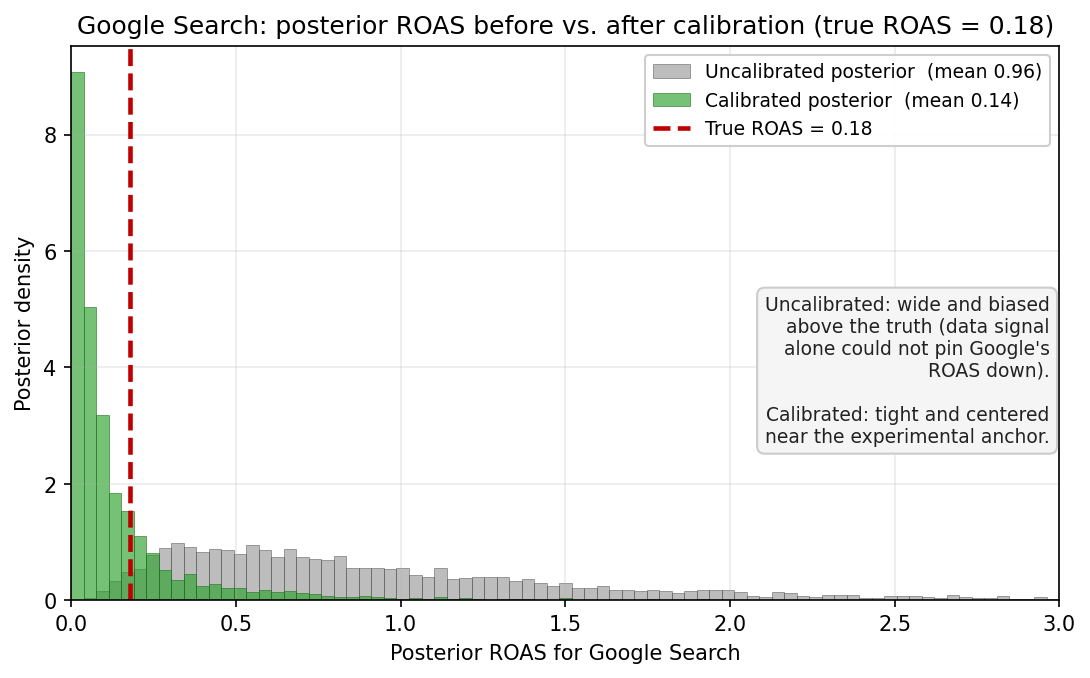
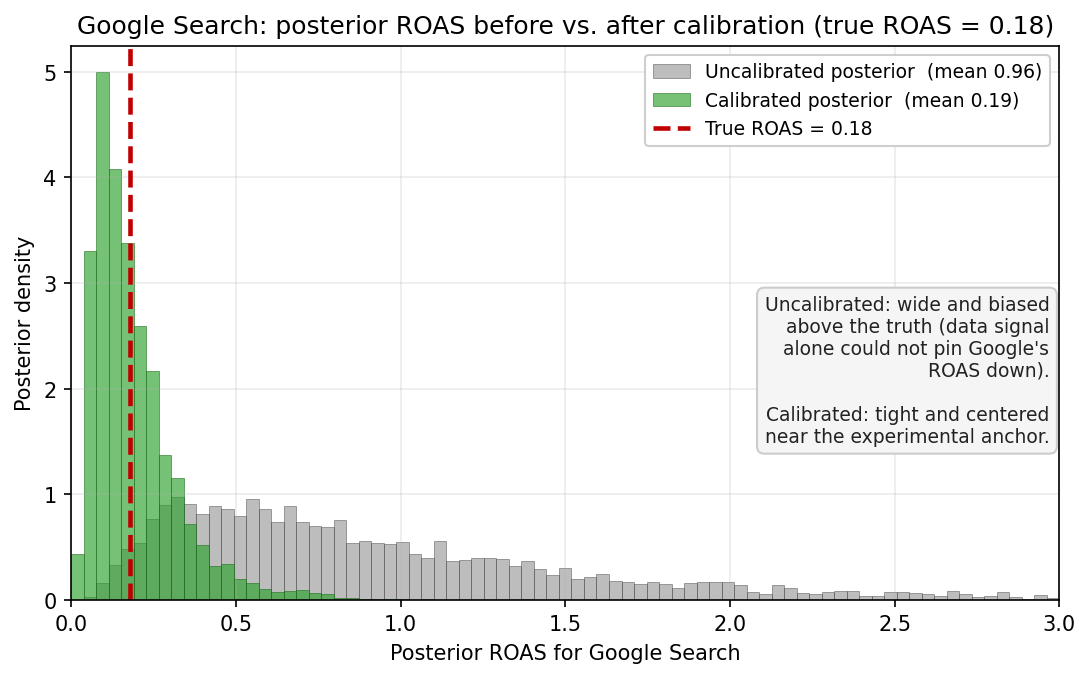
Sync public site to latest render (review fixes: α/2 label, Part 3 key takeaways, discount-trap wording, +7% basis, calibrated-prior figure)

diff --git a/part3/sec3.2-ab-testing.html b/part3/sec3.2-ab-testing.html
@@ -607,6 +607,7 @@ window.Quarto = {
   <li><a href="#decide-before-you-launch" id="toc-decide-before-you-launch" class="nav-link" data-scroll-target="#decide-before-you-launch">Decide Before You Launch</a></li>
   <li><a href="#cuped-getting-more-precision-from-the-same-sample" id="toc-cuped-getting-more-precision-from-the-same-sample" class="nav-link" data-scroll-target="#cuped-getting-more-precision-from-the-same-sample">CUPED: Getting More Precision from the Same Sample</a></li>
   <li><a href="#when-a-test-is-inconclusive" id="toc-when-a-test-is-inconclusive" class="nav-link" data-scroll-target="#when-a-test-is-inconclusive">When a Test Is Inconclusive</a></li>
+  <li><a href="#key-takeaways" id="toc-key-takeaways" class="nav-link" data-scroll-target="#key-takeaways">Key Takeaways</a></li>
   </ul>
 <div class="quarto-code-links"><h2>Code Links</h2><ul><li><a href="https://github.com/takechanman1228/marketing-science-in-python/blob/main/notebooks/part3-causal-inference/sec3.2_ab_test_figures.ipynb"><i class="bi bi-github"></i>sec3.2_ab_test_figures.ipynb</a></li></ul></div></nav>
     </div>
@@ -671,10 +672,10 @@ window.Quarto = {
 <h2 class="anchored" data-anchor-id="statistical-power">Statistical Power</h2>
 <p>Statistical power is the chance your test will detect an effect of a specific size if that effect truly exists. Most teams aim for 80% power, which still leaves a 20% chance of missing an effect that large.</p>
 <p>Imagine repeating the same A/B test many times. If the redesign has no real effect, the estimated lift will bounce around zero. If the redesign truly improves conversion, the estimated lift will bounce around the real lift. Power is the chance that the test lands far enough from zero for us to detect that effect.</p>
-<div id="fig-power-concept" class="fig-md quarto-float quarto-figure quarto-figure-center anchored" alt="Statistical power: overlapping H0 and H1 distributions with the alpha, beta, and power (1−beta) regions shaded.">
+<div id="fig-power-concept" class="fig-md quarto-float quarto-figure quarto-figure-center anchored" alt="Statistical power: overlapping H0 and H1 distributions with the alpha/2, beta, and power (1−beta) regions shaded.">
 <figure class="quarto-float quarto-float-fig figure">
 <div aria-describedby="fig-power-concept-caption-0ceaefa1-69ba-4598-a22c-09a6ac19f8ca">
-<img src="../images/part3/sec3.2/power_concept.png" class="fig-md img-fluid figure-img" alt="Statistical power: overlapping H0 and H1 distributions with the alpha, beta, and power (1−beta) regions shaded.">
+<img src="../images/part3/sec3.2/power_concept.png" class="fig-md img-fluid figure-img" alt="Statistical power: overlapping H0 and H1 distributions with the alpha/2, beta, and power (1−beta) regions shaded.">
 </div>
 <figcaption class="quarto-float-caption-bottom quarto-float-caption quarto-float-fig" id="fig-power-concept-caption-0ceaefa1-69ba-4598-a22c-09a6ac19f8ca">
 Figure&nbsp;1: Statistical power: the H0 and H1 distributions.
@@ -774,6 +775,16 @@ Figure&nbsp;3: How CUPED removes pre-experiment variance.
 <p>But what if you can’t randomize at all? Maybe the treatment is already live, or there are ethical reasons you can’t run an experiment. That’s when you turn to quasi-experimental methods.</p>
 <p><strong>Companion notebook:</strong> <code>sec3.2_ab_test_figures.ipynb</code> reproduces the sample-size, power, and CUPED figures from this chapter.<br>
 <a href="https://github.com/takechanman1228/marketing-science-in-python/blob/main/notebooks/part3-causal-inference/sec3.2_ab_test_figures.ipynb">View on GitHub</a> · <a href="https://colab.research.google.com/github/takechanman1228/marketing-science-in-python/blob/main/notebooks/part3-causal-inference/sec3.2_ab_test_figures.ipynb">Open in Colab</a></p>
+</section>
+<section id="key-takeaways" class="level2">
+<h2 class="anchored" data-anchor-id="key-takeaways">Key Takeaways</h2>
+<ul>
+<li>A non-significant result is not evidence of no effect. An underpowered test cannot separate a real lift from noise, so before declaring a treatment dead, ask whether the test could have detected an effect you care about.</li>
+<li>Sample size scales with <span class="math inline">\(1/\text{MDE}^2\)</span>. Detecting half the lift takes roughly four times the users, which is why small improvements on low-conversion metrics are expensive to measure.</li>
+<li>Decide four things before launch: the primary metric, the MDE, the sample size and duration, and the guardrail metrics. Writing them down protects you from peeking and metric fishing.</li>
+<li>Judge inconclusive tests by the confidence interval, not the p-value. If the interval still includes lifts worth shipping, the test has not failed; it just has not answered yet.</li>
+<li>When you cannot collect more data, CUPED can buy precision from pre-experiment data. At a correlation of 0.7 it removes about half the variance, as much as doubling the sample.</li>
+</ul>
 
 
 <div id="refs" class="references csl-bib-body hanging-indent" role="list" style="display: none">

diff --git a/part5/sec5.1-price-elasticity.html b/part5/sec5.1-price-elasticity.html
@@ -760,7 +760,7 @@ Figure&nbsp;2: Fitted power-law demand curves for eight products.
 <p>The two answers can differ. A lower price can sell more units and increase revenue while reducing total margin. A higher price can reduce revenue but improve margin if the remaining units are profitable enough. The point is not that margin is always the only objective. The point is that the objective must be explicit before choosing the price.</p>
 <section id="worked-example-a-private-label-cereal" class="level3">
 <h3 class="anchored" data-anchor-id="worked-example-a-private-label-cereal">Worked example: a private-label cereal</h3>
-<p>Take a private-label cereal, the same category as the part-introduction promotion story, with these parameters:</p>
+<p>Take a private-label cereal with these parameters:</p>
 <ol type="1">
 <li>Current price: $3.99</li>
 <li>Variable cost: $2.20</li>
@@ -815,7 +815,7 @@ Figure&nbsp;2: Fitted power-law demand curves for eight products.
 </tr>
 </tbody>
 </table>
-<p>The table shows the core tradeoff. Within this range, revenue is highest at the lowest price, and under constant elasticity it would keep climbing with every further cut. Margin behaves differently: it has an interior optimum at <span class="math inline">\(P^* = C \cdot |b_1| / (|b_1| - 1)\)</span>, about $5.87 for these parameters, which is why total margin is still rising at the top of the table, at $2,903. At 10% higher, revenue falls 5.5% while margin rises 5.1%. Revenue and margin point in opposite directions. This is the discount trap from the part introduction, now with numbers attached.</p>
+<p>The table shows the core tradeoff. Within this range, revenue is highest at the lowest price, and under constant elasticity it would keep climbing with every further cut. Margin behaves differently: it has an interior optimum at <span class="math inline">\(P^* = C \cdot |b_1| / (|b_1| - 1)\)</span>, about $5.87 for these parameters, which is why total margin is still rising at the top of the table, at $2,903. At 10% higher, revenue falls 5.5% while margin rises 5.1%. Revenue and margin point in opposite directions. This is the discount trap, now with numbers attached.</p>
 <p><a href="#fig-margin-curves" class="quarto-xref">Figure&nbsp;<span>3</span></a> visualizes the same logic for five real Dunnhumby products. In every panel, revenue keeps climbing as the price falls, while contribution margin turns over at an interior price, so the two objectives genuinely point to different decisions. For these highly elastic private-label dairy items, the margin-maximizing price is consistently lower than the current price because the extra volume from a price cut is large enough to lift total margin.</p>
 <div id="fig-margin-curves" class="fig-lg quarto-float quarto-figure quarto-figure-center anchored" alt="Revenue vs. contribution-margin curves for five products, marking the current and margin-maximizing prices.">
 <figure class="quarto-float quarto-float-fig figure">

diff --git a/part3/sec3.3-quasi-experiments.html b/part3/sec3.3-quasi-experiments.html
@@ -581,6 +581,7 @@ gtag('config', 'G-YY0LCGYER5', { 'anonymize_ip': true});
   </ul></li>
   <li><a href="#regression-discontinuity-rdd" id="toc-regression-discontinuity-rdd" class="nav-link" data-scroll-target="#regression-discontinuity-rdd">Regression Discontinuity (RDD)</a></li>
   <li><a href="#synthetic-control" id="toc-synthetic-control" class="nav-link" data-scroll-target="#synthetic-control">Synthetic Control</a></li>
+  <li><a href="#key-takeaways" id="toc-key-takeaways" class="nav-link" data-scroll-target="#key-takeaways">Key Takeaways</a></li>
   </ul>
 <div class="quarto-code-links"><h2>Code Links</h2><ul><li><a href="https://github.com/takechanman1228/marketing-science-in-python/blob/main/notebooks/part3-causal-inference/sec3.3_quasi_experiments.ipynb"><i class="bi bi-github"></i>sec3.3_quasi_experiments.ipynb</a></li></ul></div></nav>
     </div>
@@ -737,6 +738,15 @@ Figure&nbsp;4: Synthetic Control: actual vs.&nbsp;synthetic counterfactual.
 <p>These methods estimate the average effect of a treatment. But in practice, different customers can respond very differently. A coupon might lift purchases by 5% on average, but that average could mix customers who saw a 20% lift with others who saw no effect at all. The next chapter digs into that question.</p>
 <p><strong>Companion notebook:</strong> <code>sec3.3_quasi_experiments.ipynb</code> works through DiD (table, regression, and pre-trend check), RDD, and Synthetic Control on synthetic data with <code>statsmodels</code> and <code>scipy</code>.<br>
 <a href="https://github.com/takechanman1228/marketing-science-in-python/blob/main/notebooks/part3-causal-inference/sec3.3_quasi_experiments.ipynb">View on GitHub</a> · <a href="https://colab.research.google.com/github/takechanman1228/marketing-science-in-python/blob/main/notebooks/part3-causal-inference/sec3.3_quasi_experiments.ipynb">Open in Colab</a></p>
+</section>
+<section id="key-takeaways" class="level2">
+<h2 class="anchored" data-anchor-id="key-takeaways">Key Takeaways</h2>
+<ul>
+<li>The method is chosen by the assignment structure, not by sophistication: who received the treatment, when, and why. Pick the design whose comparison your business context actually allows.</li>
+<li>DiD compares changes, not levels, so the groups may start at different baselines. It rests on parallel trends: check the pre-period, and treat a clean pre-trend as a credibility check, not proof.</li>
+<li>RDD estimates a local effect for units near the cutoff, and only when units cannot precisely sort themselves across it. Do not read the jump at the threshold as an effect for everyone.</li>
+<li>Synthetic Control stands or falls on the pre-period fit. If the weighted donor blend cannot reproduce the treated market’s history, do not trust the post-campaign gap.</li>
+</ul>
 
 
 <div id="refs" class="references csl-bib-body hanging-indent" role="list" style="display: none">

diff --git a/part3/sec3.4-meta-learners.html b/part3/sec3.4-meta-learners.html
@@ -609,6 +609,7 @@ window.Quarto = {
   <li><a href="#advanced-meta-learners" id="toc-advanced-meta-learners" class="nav-link" data-scroll-target="#advanced-meta-learners">Advanced Meta-Learners</a></li>
   <li><a href="#example-estimating-heterogeneous-email-effects" id="toc-example-estimating-heterogeneous-email-effects" class="nav-link" data-scroll-target="#example-estimating-heterogeneous-email-effects">Example: Estimating Heterogeneous Email Effects</a></li>
   <li><a href="#what-to-check-before-trusting-cate" id="toc-what-to-check-before-trusting-cate" class="nav-link" data-scroll-target="#what-to-check-before-trusting-cate">What to Check Before Trusting CATE</a></li>
+  <li><a href="#key-takeaways" id="toc-key-takeaways" class="nav-link" data-scroll-target="#key-takeaways">Key Takeaways</a></li>
   </ul>
 <div class="quarto-code-links"><h2>Code Links</h2><ul><li><a href="https://github.com/takechanman1228/marketing-science-in-python/blob/main/notebooks/part3-causal-inference/sec3.4_meta_learners.ipynb"><i class="bi bi-github"></i>sec3.4_meta_learners.ipynb</a></li></ul></div></nav>
     </div>
@@ -816,6 +817,15 @@ Figure&nbsp;8: CATE recovery across meta-learners.
 <li>Watch overlap. Where treated and control customers do not coexist, CATE is an extrapolation rather than an estimate.</li>
 </ul>
 <p>We now have per-customer estimates of where the treatment effect is larger or smaller. The next section turns those estimates into targeting decisions.</p>
+</section>
+<section id="key-takeaways" class="level2">
+<h2 class="anchored" data-anchor-id="key-takeaways">Key Takeaways</h2>
+<ul>
+<li>ATE answers “did it work on average”; CATE asks “for whom did it work.” Targeting needs the second, and meta-learners estimate it by using machine learning to fill in each customer’s missing counterfactual.</li>
+<li>S-learner is the simplest baseline but can bias effects toward zero when the treatment signal is weak; T-learner removes that bias at the cost of higher variance. X-, DR-, and DML-learners trade extra machinery for robustness on imbalanced or confounded data.</li>
+<li>Which learner ranks customers best is data-dependent. Grade recovery on your own data, with a semi-synthetic benchmark if needed, rather than trusting any method by reputation.</li>
+<li>CATE is a group-level model estimate, not a per-customer measurement. Run the checks above, from the mean against the experimental difference to learner stability and overlap, before spending budget on it.</li>
+</ul>
 
 
 <div id="refs" class="references csl-bib-body hanging-indent" role="list" style="display: none">

diff --git a/part6/sec6.2-mmm-fundamentals.html b/part6/sec6.2-mmm-fundamentals.html
@@ -951,7 +951,7 @@ Figure&nbsp;15: Pre- vs.&nbsp;post-optimization budget and sales.
 </figcaption>
 </figure>
 </div>
-<p>In the demo, the optimizer reallocates spend across the five modeled channels (TV/CTV, OOH, Google Search, Meta, and TikTok), moving budget away from channels with flatter marginal response curves toward channels with more remaining headroom. The total budget stays the same; only the mix changes. Gains of 5–10% in predicted sales from reallocation alone are common when teams first implement MMM; this demo shows about +7%.</p>
+<p>In the demo, the optimizer reallocates spend across the five modeled channels (TV/CTV, OOH, Google Search, Meta, and TikTok), moving budget away from channels with flatter marginal response curves toward channels with more remaining headroom. The total budget stays the same; only the mix changes. Gains of 5–10% in media-driven (incremental) sales from reallocation alone are common when teams first implement MMM; this demo shows about +7%, which works out to roughly +1% of total sales.</p>
 <p>Use the optimizer’s output as a starting point for planning, not as a final media plan. The model does not account for real-world constraints like contracts, minimum spend levels, or operational lead times. Those need to be layered on separately. Since the response curves are built from observational data, the next step is to validate them with experimental evidence. <a href="sec6.3-mmm-calibration.html">Section 6.3</a> covers that process.</p>
 </section>
 <section id="key-takeaways" class="level2">
